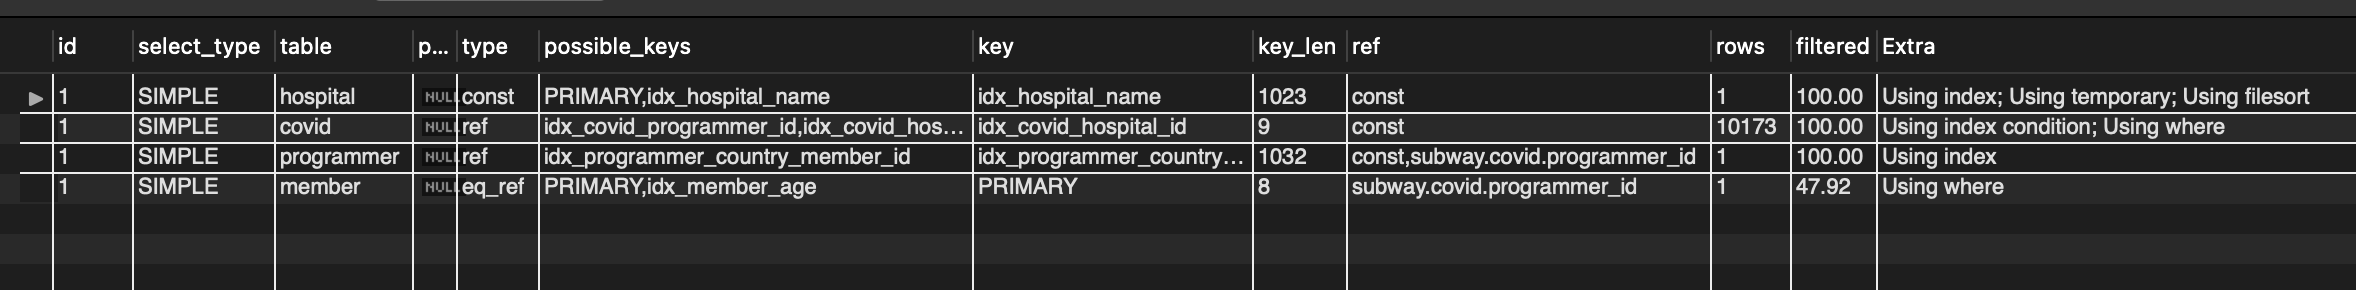
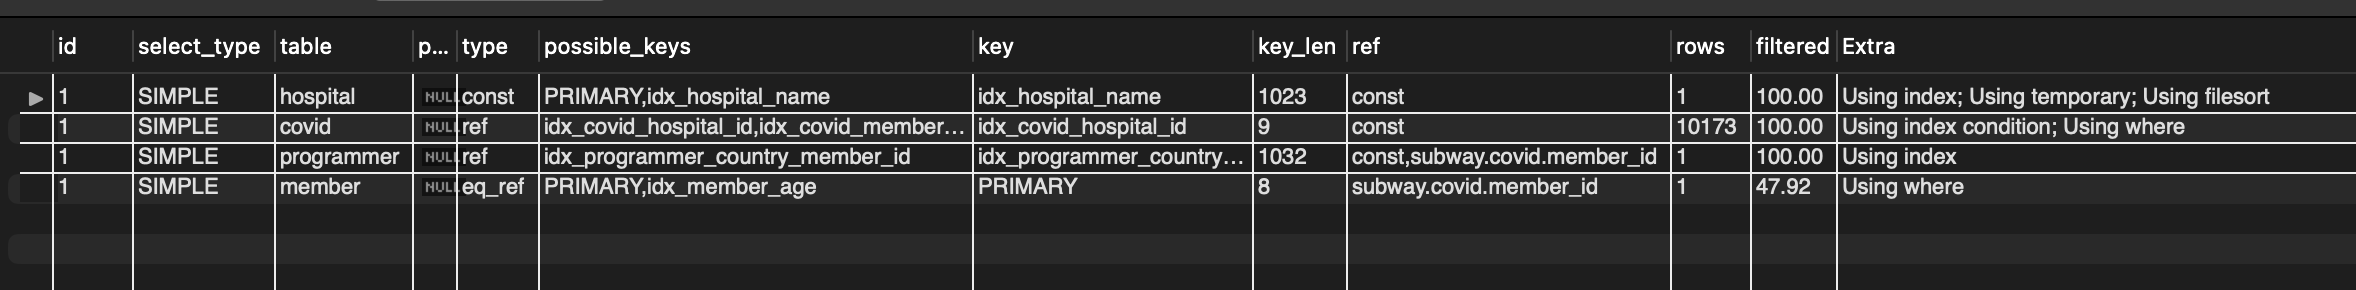
fix: 4번 조건 변경

diff --git a/docs/step4/index.md b/docs/step4/index.md
@@ -111,8 +111,8 @@ select c.stay, count(c.stay)
 from (select id, member_id from programmer where country = 'India') as indian
 join (select id from member where age between 20 and 29) as twenties
 on twenties.id = indian.member_id
-join (select id, hospital_id, programmer_id, stay from covid) c
-on twenties.id = c.programmer_id
+join (select id, hospital_id, member_id, stay from covid) c
+on twenties.id = c.member_id
 join (select id from hospital where name = '서울대병원') as h
 on c.hospital_id = h.id
 group by c.stay;
